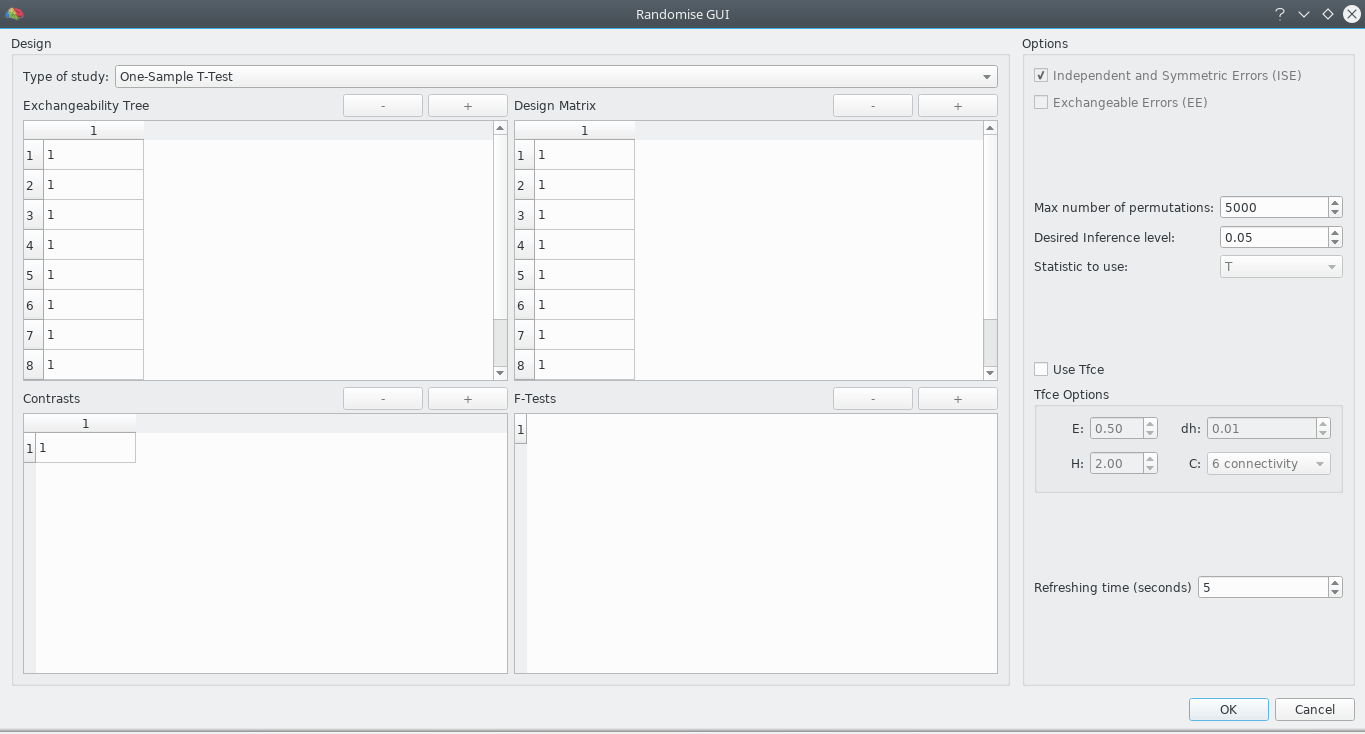
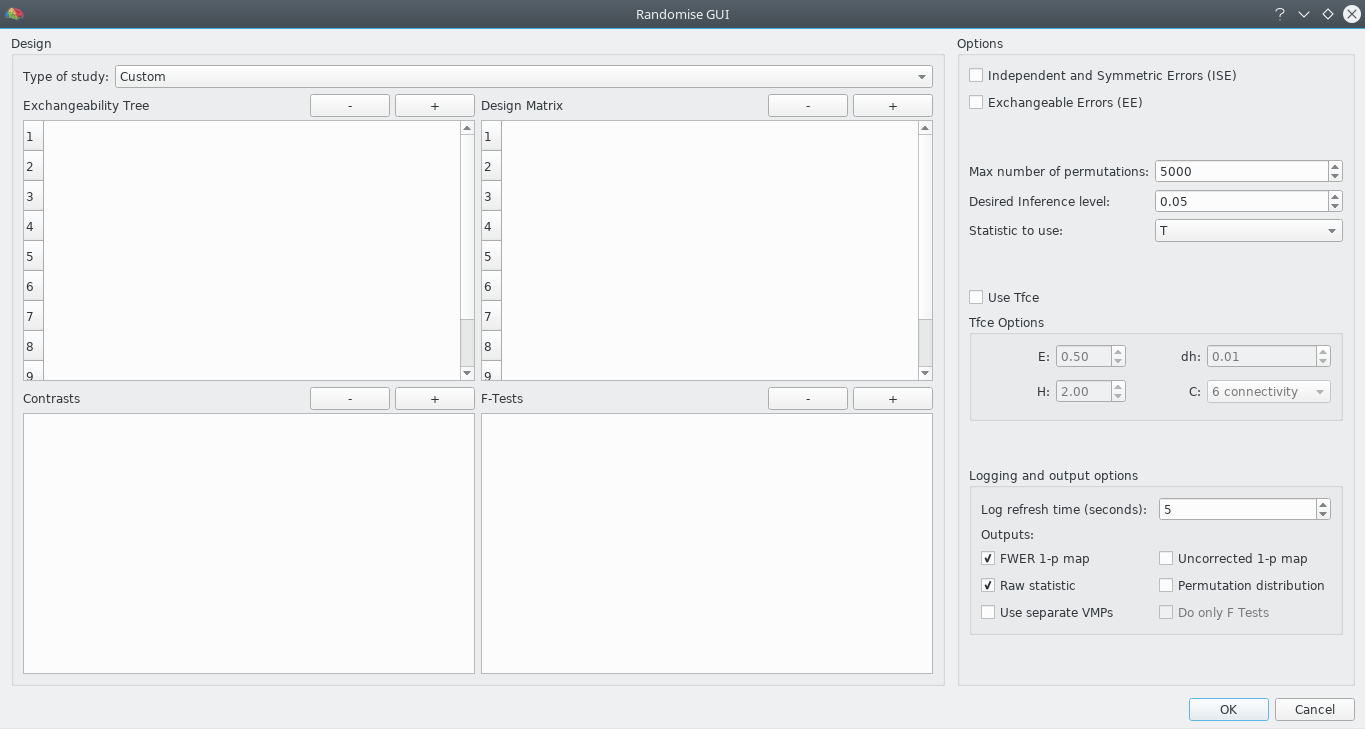
Updated docs with screenshot of the new version

diff --git a/doc/RandomisePluginHelp.html b/doc/RandomisePluginHelp.html
@@ -19,6 +19,7 @@
 <li><a href="PermutationTestingGlm.html">Permutation testing applied to GLM</a></li>
 <li><a href="Tfce.html">Threshold Free Cluster Enhancement</a></li>
 </ul>
+<p>For a feature comparison with the FSL Randomise, see <a href="Comparison.html">here</a>.</p>
 <h2 id="before-running-the-plugin">Before running the plugin</h2>
 <p>The plugin needs the beta maps of the contrast of interest for each subject. Depending on the type of study, e.g. a paired t-test, there can also be more than one map for each subject. The beta maps can be easily generated using the &quot;Overlay General Linear Model dialog&quot;, as shown below and in the User's Guide in topic &quot;Creating Multi-Subject Contrast Maps from Multi-Subject GLMs&quot; in the &quot;Miscellaneous Tools&quot; chapter.</p>
 <h3 id="example-creating-maps-for-one-sample-t-test">Example: creating maps for one sample t-test</h3>
@@ -49,26 +50,38 @@
 </div>
 <p>As you can see from the image, the GUI is divided into two main parts: <strong>Design</strong> and <strong>Options</strong>. A brief description of each component is provided below.</p>
 <h3 id="type-of-study">Type of study</h3>
-<p>This combobox lets the user select the type of analysis she wants to perform. The default selection is &quot;Custom&quot;, which means that the user must specify herself the design matrix, the contrast and the exchangeability tree using the buttons above each matrix and then fill the entries manually. If one of the other predefined studies is selected, then all the matrices and the options will be filled automatically. In this case, the buttons and the options will also be disabled, as shown in the example above.</p>
+<p>This combobox lets the user select the type of analysis she wants to perform. The default selection is &quot;Custom&quot;, which means that the user must specify herself the design matrix, the contrast and the exchangeability tree using the buttons above each matrix and then fill the entries manually. If one of the other predefined studies is selected, then all the matrices and the options will be filled automatically. In this case, the buttons and the options will also be disabled.</p>
 <h3 id="design-matrix">Design Matrix</h3>
 <p>The design matrix features one row for each beta map and one column for each regressor. Since the number of maps remains the same through the execution of the plugin, the user doesn't need to specify the number of rows as it is set automatically. As a result of this, the buttons above the matrix add and remove columns/regressors from it.</p>
 <h3 id="contrast-matrix">Contrast Matrix</h3>
 <p>The contrast matrix features one column for each regressor specified in the design matrix and one row for each contrast specified by the user. In this case, since the number of regressors is set up in the design matrix, the buttons above the matrix add or remove rows/contrasts from it.</p>
 <h3 id="f-test-matrix">F-Test matrix</h3>
 <p>The F-Test matrix is used in those designs in which F-Tests are involved. It features one row for each contrast and one column for each F-test. The buttons above the matrix add or remove columns/f-tests. The entry at row i, column j of this matrix specifies if the contrast i must be taken into account when composing f-test j.</p>
-<h3 id="options-and-tfce">Options and TFCE</h3>
-<p>The options tab is pretty much self explanatory. For any doubts about exchangeability hypothesis and TFCE, refer to the pages linked above.</p>
+<h3 id="exchangeability-options-and-tfce">Exchangeability options and TFCE</h3>
+<p>This part of the options tab is pretty much self explanatory. For any doubts about exchangeability hypothesis and TFCE, refer to the pages linked above.</p>
 <h3 id="number-of-permutation-requested">Number of permutation requested</h3>
 <p>The number of permutation can be speficied by the user by modifying the value in the respective spin box. However, it should be noted that the number specified by the user aren't always the actual permutations performed by the plugin, but it can be thought as an upper bound.</p>
 <p>During the execution of the plugin, each contrast is treated separately. For one specific contrast, the maximum number of permutations depends on the design matrix, on the exchangeability tree and the hypothesis about the errors. After the maximum number of permutations is computed, it is compared with the number supplied by the user. If the number supplied by the user is inferior, than only that number of permutations will be performed.</p>
+<p>If this number is set to -1, exhaustive permutation analysis will be run for each contrast.</p>
+<h3 id="output-and-logging-options">Output and logging options</h3>
+<p>The results for each contrast/F Test are stored in separate folders. For each folder, the these are the possible outputs:</p>
+<ol style="list-style-type: decimal">
+<li>A map of the statistic of your choice computed for that contrast.</li>
+<li>A map of 1-p uncorrected p-values.</li>
+<li>A map of 1-p FWER corrected p-values.</li>
+<li>The sorted maximal distribution used to compute the critical threshold for FWER correction.</li>
+</ol>
+<p>By selecting the &quot;Use separate VMPs&quot; option, in each folder there will be more than one VMP, each corrisponding to one output. Otherwise, the results will be stored as submaps of just 1 VMP.</p>
 <h2 id="tips-tricks">Tips &amp; Tricks</h2>
 <h3 id="which-type-of-standard-analysis-should-i-run">Which type of standard analysis should I run?</h3>
 <p>The choice of analysis to perform depends on what you are searching for in your study:</p>
 <ul>
 <li>If you're looking for group effects, perform <em>One sample t test</em>.</li>
 <li>If your study involves patients and controls, and error variance can be assumed to be the same across all subjects, perform <em>Two sample unpaired t test</em>.</li>
-<li>If you want to confront a pair of different conditions over the same subjects, perform <em>Two sample paired t test</em>. (And be sure to have generated the maps properly.)</li>
+<li>If your study involves patients and controls, and error variance <em>cannot</em> be assumed to be the same across all subjects (i.e. patients with ASD, experiment involving twins etc.), perform <em>Two sample unpaired t test (unpaired group variance)</em>.</li>
+<li>If you want to confront a pair of different conditions over the same subjects, perform <em>Two sample paired t test</em>.</li>
 </ul>
+<p>The other predefined study available is ANOVA: 1 factor-4 level (Repeated measures), which is pretty much self explainatory.</p>
 <h3 id="modify-a-standard-analysis">Modify a standard analysis</h3>
 <p>There are several reasons to modify one of the standard analysis listed in the plugin:</p>
 <ol style="list-style-type: decimal">
@@ -114,23 +127,25 @@
 </table>
 <p>So, when setting up a custom analysis, the G statistic is probably your safest choice. However, it should be noted that since G statistic has a very complex equation involving lots of matrix products and so its computation degrades overall performance. It should thus only be used when strictly necessary.</p>
 <h2 id="computing-visualizing-results">Computing &amp; Visualizing results</h2>
-<p>After you've set up your study, click on the OK button on the bottom right of the GUI to start the computation. This will take a while, depending on the number of contrasts specified, the use of TFCE and the choice of the statistic. You can monitor the progress in the &quot;Log&quot; pane of BrainVoyager, which is updated after every time interval specified in the GUI.</p>
+<p>After you've set up your study, click on the OK button on the bottom right of the GUI to start the computation. You will be prompted to a save dialog, in which you can specify the path where you want the results to be saved.</p>
+<div class="figure">
+<img src="images/gui/save.png" />
+
+</div>
+<p>If the location chosen has write permission, then a folder with the specified name will be created, and the actual test will start. This will take a while, depending on the number of contrasts specified, the use of TFCE and the choice of the statistic. You can monitor the progress in the &quot;Log&quot; pane of BrainVoyager, which is updated after every time interval specified in the GUI.</p>
 <div class="figure">
 <img src="images/gui/log.png" />
 
 </div>
-<p>Once the plugin has finished, you can view the results in &quot;Volume Maps&quot; dialog.</p>
+<p>Once the plugin has finished, you can view the results in the folder you specified, by loading the appropriate VMP.</p>
+<div class="figure">
+<img src="images/gui/load.png" />
+
+</div>
 <div class="figure">
 <img src="images/gui/results.png" />
 
 </div>
-<p>As you can see, for each contrast three maps are generated:</p>
-<ol style="list-style-type: decimal">
-<li>A map of the statistic of your choice computed for that contrast.</li>
-<li>A map of 1-p uncorrected p-values.</li>
-<li>A map of 1-p FWER corrected p-values.</li>
-</ol>
-<p>Remember to save the results, especially if they're produced after a long time, as the plugins doesn't do it automatically.</p>
 <h2 id="reference">Reference</h2>
 <p>Algorithm: Anderson M. Winkler, Gerard R. Ridgway, Matthew A. Webster, Stephen M. Smith, Thomas E. Nichols.</p>
 <p>Implementation: Marco Mecchia</p>

diff --git a/doc/Comparison.html b/doc/Comparison.html
@@ -1,0 +1,90 @@
+<!DOCTYPE html PUBLIC "-//W3C//DTD XHTML 1.0 Transitional//EN" "http://www.w3.org/TR/xhtml1/DTD/xhtml1-transitional.dtd">
+<html xmlns="http://www.w3.org/1999/xhtml">
+<head>
+  <meta http-equiv="Content-Type" content="text/html; charset=utf-8" />
+  <meta http-equiv="Content-Style-Type" content="text/css" />
+  <meta name="generator" content="pandoc" />
+  <title></title>
+  <style type="text/css">code{white-space: pre;}</style>
+  <link rel="stylesheet" href="style.css" type="text/css" />
+</head>
+<body>
+<p>This plugin for permutation tests applied to GLM was greatly inspired by the Randomise program built in FSL, improving some of his aspects. Here's a comparison of the features:</p>
+<table>
+<colgroup>
+<col width="13%" />
+<col width="29%" />
+<col width="56%" />
+</colgroup>
+<thead>
+<tr class="header">
+<th>Feature</th>
+<th>FSL Randomise</th>
+<th>BV Randomise Plugin</th>
+</tr>
+</thead>
+<tbody>
+<tr class="odd">
+<td>Input formats</td>
+<td>NIFTI.</td>
+<td>VMP.</td>
+</tr>
+<tr class="even">
+<td>Univariate statistics</td>
+<td>t and F.</td>
+<td>t, F, G</td>
+</tr>
+<tr class="odd">
+<td>Spatial statistics</td>
+<td>Cluster extent, cluster mass, TFCE. All of these can be volume-based (voxelwise).</td>
+<td>TFCE, cluster mass. All of these can be volume-based (voxelwise).</td>
+</tr>
+<tr class="even">
+<td>Regression and permutation strategies</td>
+<td>Freedman–Lane.</td>
+<td>Freedman–Lane.</td>
+</tr>
+<tr class="odd">
+<td>Shuffling possibilities</td>
+<td>Permutations or sign-flippings.</td>
+<td>Permutations, sign-flippings, and permutations with sign-flippings.</td>
+</tr>
+<tr class="even">
+<td>Block permutation</td>
+<td>Either whole-block or within-block.</td>
+<td>Whole-block and/or within-block, either in isolation or in arbitrary combinations, with multiple and complex levels of tree-like dependence between observations.</td>
+</tr>
+<tr class="odd">
+<td>Variance groups</td>
+<td>One. Cannot be changed.</td>
+<td>One set automatically.</td>
+</tr>
+<tr class="even">
+<td>FWER correction</td>
+<td>Within each contrast only.</td>
+<td>Within each contrast only.</td>
+</tr>
+<tr class="odd">
+<td>FDR correction</td>
+<td>Yes, separate command. Correction within each contrast only.</td>
+<td>(Scheduled) Yes, separate command. Correction within each contrast only.</td>
+</tr>
+<tr class="even">
+<td>Overall performance</td>
+<td>Generally a bit slower, except for spatial statistics.</td>
+<td>Generally a bit faster, except for spatial statistics, that can be extremely slow.</td>
+</tr>
+<tr class="odd">
+<td>Parallel processing</td>
+<td>Yes, with a separate script (randomise_parallel).</td>
+<td>Yes, built-in.</td>
+</tr>
+<tr class="even">
+<td>Language</td>
+<td>Written in C++.</td>
+<td>Written in C++.</td>
+</tr>
+</tbody>
+</table>
+</body>
+</html>

diff --git a/doc/RandomisePluginHelp.md b/doc/RandomisePluginHelp.md
@@ -6,6 +6,7 @@ This plugin performs permutation tests and inference on multi-subject task relat
 - [Permutation testing applied to GLM](PermutationTestingGlm.html)
 - [Threshold Free Cluster Enhancement](Tfce.html)
 
+For a feature comparison with the FSL Randomise, see [here](Comparison.html).
 
 ## Before running the plugin ##
 The plugin needs the beta maps of the contrast of interest for each subject. Depending on the type of study, e.g. a paired t-test, there can also be more than one map for each subject. The beta maps can be easily generated using the "Overlay General Linear Model dialog", as shown below and in the User's Guide in topic "Creating Multi-Subject Contrast Maps from Multi-Subject GLMs" in the "Miscellaneous Tools" chapter.
@@ -40,7 +41,7 @@ After the creation of the beta maps, the plugin GUI can be launched from the "Pl
 As you can see from the image, the GUI is divided into two main parts: **Design** and **Options**. A brief description of each component is provided below.
 
 ### Type of study ###
-This combobox lets the user select the type of analysis she wants to perform. The default selection is "Custom", which means that the user must specify herself the design matrix, the contrast and the exchangeability tree using the buttons above each matrix and then fill the entries manually. If one of the other predefined studies is selected, then all the matrices and the options will be filled automatically. In this case, the buttons and the options will also be disabled, as shown in the example above.
+This combobox lets the user select the type of analysis she wants to perform. The default selection is "Custom", which means that the user must specify herself the design matrix, the contrast and the exchangeability tree using the buttons above each matrix and then fill the entries manually. If one of the other predefined studies is selected, then all the matrices and the options will be filled automatically. In this case, the buttons and the options will also be disabled.
 
 ### Design Matrix ###
 The design matrix features one row for each beta map and one column for each regressor. Since the number of maps remains the same through the execution of the plugin, the user doesn't need to specify the number of rows as it is set automatically. As a result of this, the buttons above the matrix add and remove columns/regressors from it.
@@ -51,13 +52,25 @@ The contrast matrix features one column for each regressor specified in the desi
 ### F-Test matrix ###
 The F-Test matrix is used in those designs in which F-Tests are involved. It features one row for each contrast and one column for each F-test. The buttons above the matrix add or remove columns/f-tests. The entry at row i, column j of this matrix specifies if the contrast i must be taken into account when composing f-test j.
 
-### Options and TFCE ###
-The options tab is pretty much self explanatory. For any doubts about exchangeability hypothesis and TFCE, refer to the pages linked above.
+### Exchangeability options and TFCE ###
+This part of the options tab is pretty much self explanatory. For any doubts about exchangeability hypothesis and TFCE, refer to the pages linked above.
 
 ### Number of permutation requested ###
 The number of permutation can be speficied by the user by modifying the value in the respective spin box. However, it should be noted that the number specified by the user aren't always the actual permutations performed by the plugin, but it can be thought as an upper bound. 
 
 During the execution of the plugin, each contrast is treated separately. For one specific contrast, the maximum number of permutations depends on the design matrix, on the exchangeability tree and the hypothesis about the errors. After the maximum number of permutations is computed, it is compared with the number supplied by the user. If the number supplied by the user is inferior, than only that number of permutations will be performed. 
+
+If this number is set to -1, exhaustive permutation analysis will be run for each contrast.
+
+### Output and logging options ###
+The results for each contrast/F Test are stored in separate folders. For each folder, the these are the possible outputs:
+
+1. A map of the statistic of your choice computed for that contrast.
+2. A map of 1-p uncorrected p-values.
+3. A map of 1-p FWER corrected p-values.
+4. The sorted maximal distribution used to compute the critical threshold for FWER correction.
+
+By selecting the "Use separate VMPs" option, in each folder there will be more than one VMP, each corrisponding to one output. Otherwise, the results will be stored as submaps of just 1 VMP.
 
 ## Tips & Tricks ##
 
@@ -66,7 +79,10 @@ The choice of analysis to perform depends on what you are searching for in your 
 
 - If you're looking for group effects, perform *One sample t test*.
 - If your study involves patients and controls, and error variance can be assumed to be the same across all subjects, perform *Two sample unpaired t test*.
-- If you want to confront a pair of different conditions over the same subjects, perform *Two sample paired t test*. (And be sure to have generated the maps properly.) 
+- If your study involves patients and controls, and error variance *cannot* be assumed to be the same across all subjects (i.e. patients with ASD, experiment involving twins etc.), perform *Two sample unpaired t test (unpaired group variance)*.
+- If you want to confront a pair of different conditions over the same subjects, perform *Two sample paired t test*. 
+
+The other predefined study available is ANOVA: 1 factor-4 level (Repeated measures), which is pretty much self explainatory.
 
 ### Modify a standard analysis ###
 There are several reasons to modify one of the standard analysis listed in the plugin:
@@ -95,24 +111,21 @@ You won't probably know the last one, since it's not a real statistic but a gene
 
 So, when setting up a custom analysis, the G statistic is probably your safest choice. However, it should be noted that since G statistic has a very complex equation involving lots of matrix products and so its computation degrades overall performance. It should thus only be used when strictly necessary.
 
-
 ## Computing & Visualizing results ##
 
-After you've set up your study, click on the OK button on the bottom right of the GUI to start the computation. This will take a while, depending on the number of contrasts specified, the use of TFCE and the choice of the statistic. You can monitor the progress in the "Log" pane of BrainVoyager, which is updated after every time interval specified in the GUI.
+After you've set up your study, click on the OK button on the bottom right of the GUI to start the computation. You will be prompted to a save dialog, in which you can specify the path where you want the results to be saved.
+
+![](images/gui/save.png)
+
+If the location chosen has write permission, then a folder with the specified name will be created, and the actual test will start. This will take a while, depending on the number of contrasts specified, the use of TFCE and the choice of the statistic. You can monitor the progress in the "Log" pane of BrainVoyager, which is updated after every time interval specified in the GUI.
 
 ![](images/gui/log.png)
 
-Once the plugin has finished, you can view the results in "Volume Maps" dialog.
+Once the plugin has finished, you can view the results in the folder you specified, by loading the appropriate VMP.
+
+![](images/gui/load.png)
 
 ![](images/gui/results.png)
-
-As you can see, for each contrast three maps are generated:
-
-1. A map of the statistic of your choice computed for that contrast.
-2. A map of 1-p uncorrected p-values.
-3. A map of 1-p FWER corrected p-values.
-
-Remember to save the results, especially if they're produced after a long time, as the plugins doesn't do it automatically.
 
 ## Reference ##
 Algorithm: Anderson M. Winkler, Gerard R. Ridgway, Matthew A. Webster, Stephen M. Smith, Thomas E. Nichols.

diff --git a/doc/Comparison.md b/doc/Comparison.md
@@ -1,0 +1,16 @@
+This plugin for permutation tests applied to GLM was greatly inspired by the Randomise program built in FSL, improving some of his aspects. Here's a comparison of the features:
+
+| Feature                               | FSL Randomise                                                                     | BV Randomise Plugin                                                                                                                                               |
+|---------------------------------------|-----------------------------------------------------------------------------------|-------------------------------------------------------------------------------------------------------------------------------------------------------------------|
+| Input formats                         | NIFTI.                                                                            | VMP.                                                                                                                                                              |
+| Univariate statistics                 | t and F.                                                                          | t, F, G                                                                                                                                                           |
+| Spatial statistics                    | Cluster extent, cluster mass, TFCE. All of these can be volume-based (voxelwise). | TFCE, cluster mass. All of these can be volume-based (voxelwise).                                                                                                 |
+| Regression and permutation strategies | Freedman–Lane.                                                                    | Freedman–Lane.                                                                                                                                                    |
+| Shuffling possibilities               | Permutations or sign-flippings.                                                   | Permutations, sign-flippings, and permutations with sign-flippings.                                                                                               |
+| Block permutation                     | Either whole-block or within-block.                                               | Whole-block and/or within-block, either in isolation or in arbitrary combinations, with multiple and complex levels of tree-like dependence between observations. |
+| Variance groups                       | One. Cannot be changed.                                                           | One set automatically.                                                                                                                                            |
+| FWER correction                       | Within each contrast only.                                                        | Within each contrast only.                                                                                                                                        |
+| FDR correction                        | Yes, separate command. Correction within each contrast only.                      | (Scheduled) Yes, separate command. Correction within each contrast only.                                                                                          |
+| Overall performance                   | Generally a bit slower, except for spatial statistics.                            | Generally a bit faster, except for spatial statistics, that can be extremely slow.                                                                                |
+| Parallel processing                   | Yes, with a separate script (randomise_parallel).                                 | Yes, built-in.                                                                                                                                                    |
+| Language                              | Written in C++.                                                                   | Written in C++.                                                                                                                                                   |
